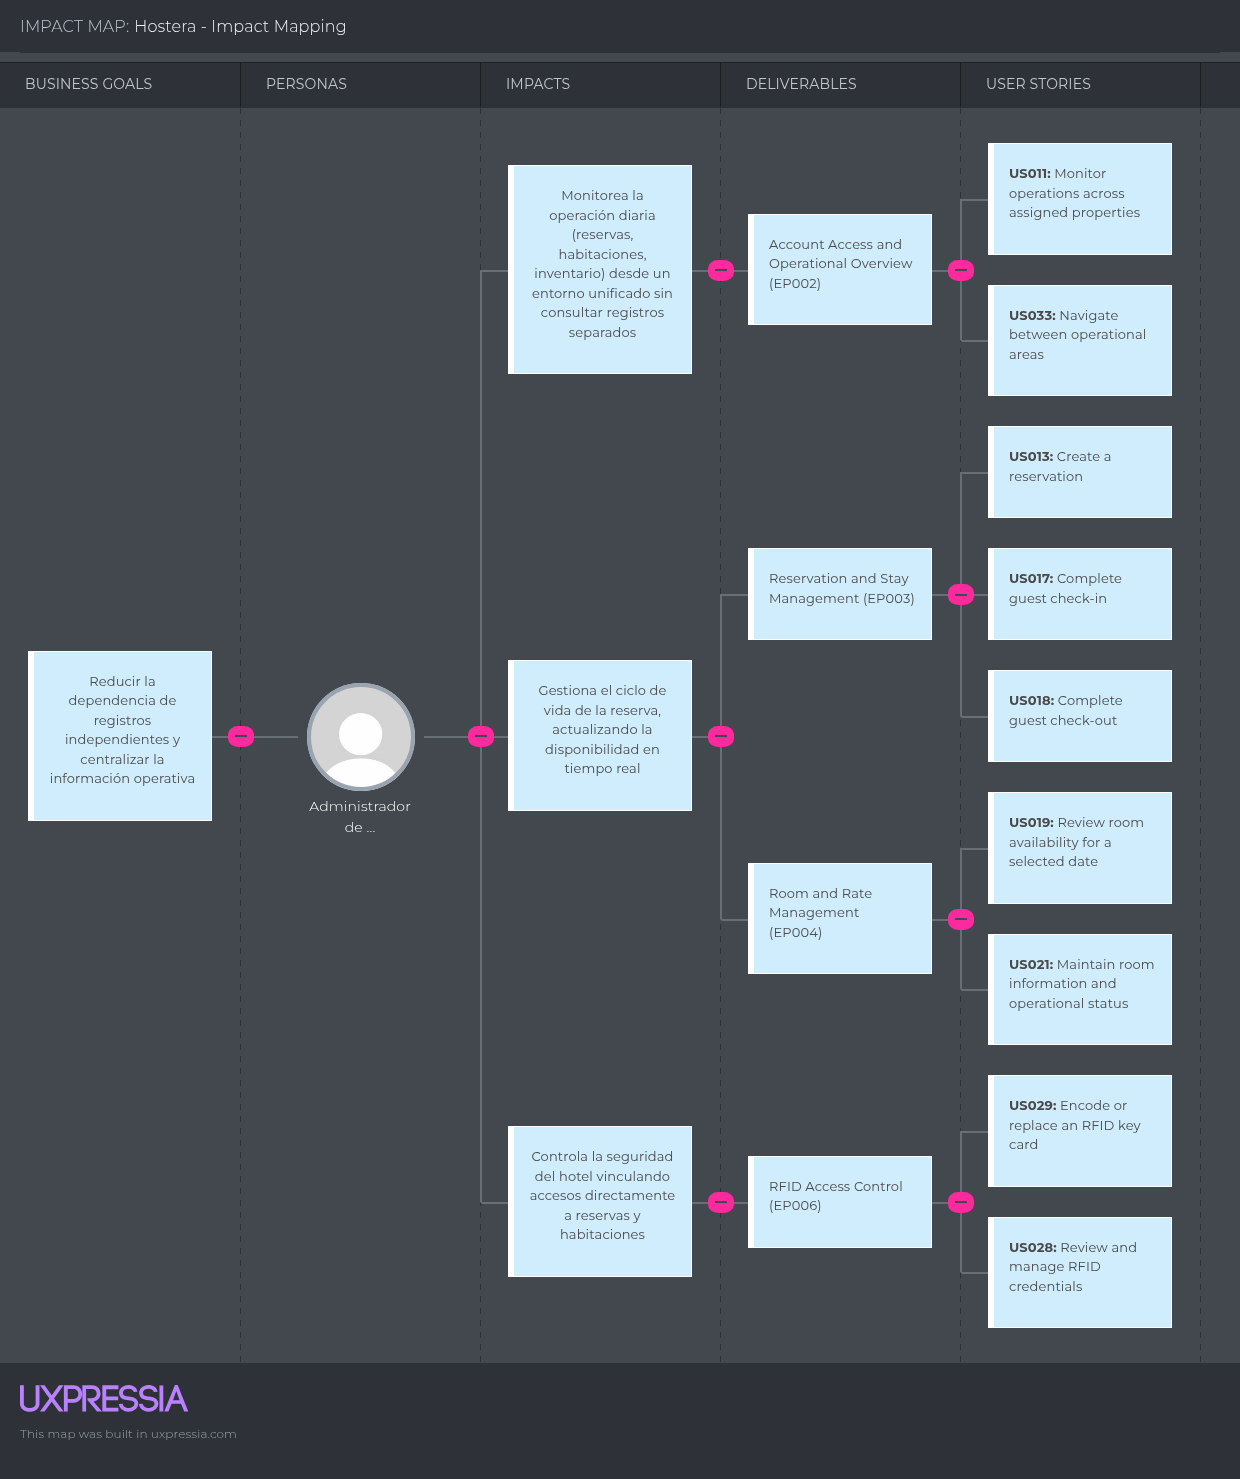
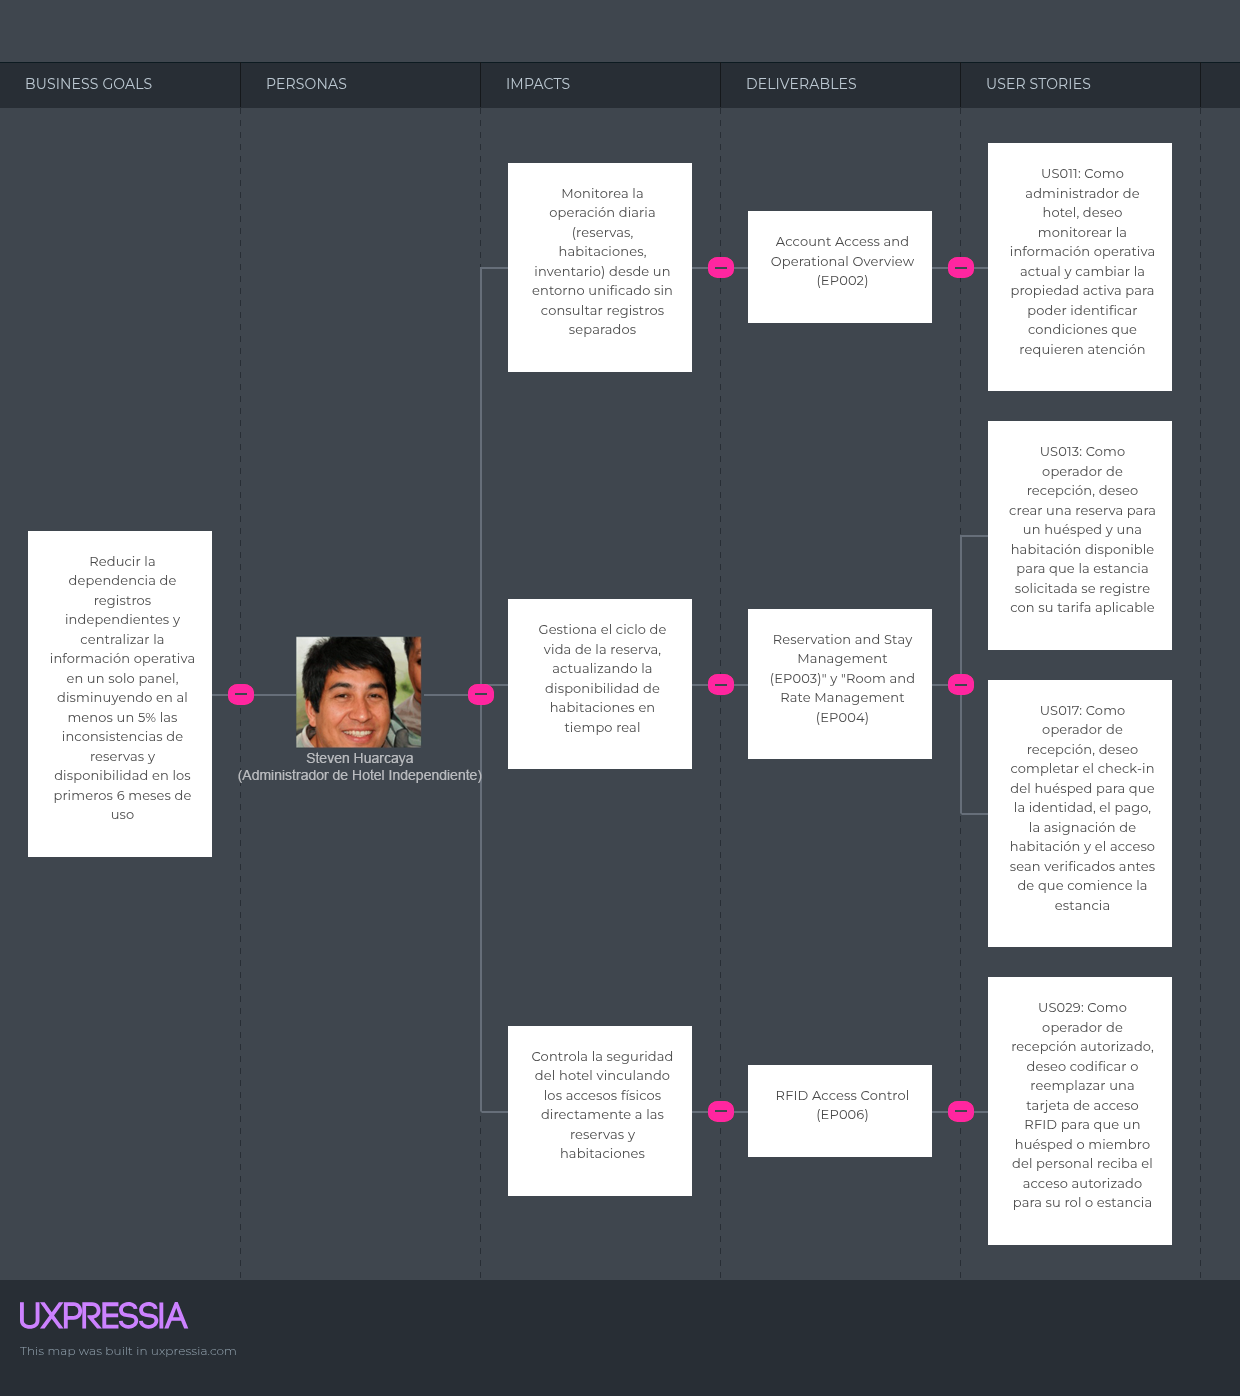
docs(impact-mapping): update impact mapping section

Changed region(s): [[0.0, 0.0308, 1.0, 0.9549], [0.0, 0.3696, 0.1839, 0.616], [0.2145, 0.4312, 0.3677, 0.5852]]

diff --git a/report.md b/report.md
@@ -1428,76 +1428,76 @@ perspectiva de un Developer y no generan Wireflow User Goals.
 
 El Impact Mapping de Hostera conecta las hipótesis estratégicas del modelo de negocio con los cambios de comportamiento esperados en los usuarios y las características del producto digital. Esta sección toma como base los criterios de éxito definidos en el proceso de Lean UX, las definiciones de los segmentos objetivo y los requerimientos funcionales documentados para el Landing Page y la Web Application.
 
-## Business Goals (SMART)
+### Business Goals (SMART)
 
-Los objetivos de negocio reflejan los criterios de éxito ("Success Criteria") establecidos en las Hipótesis de Lean UX para validar la propuesta de valor de Hostera.
+Los objetivos de negocio reflejan los criterios de éxito ("Success Criteria") establecidos en las Hipótesis de Lean UX para validar la propuesta de valor de Hostera, definidos bajo la estructura SMART.
 
 | # | Business Goal | Descripción y Métricas de Éxito | Epic Relacionado |
 |---|---|---|---|
-| **BG1** | Centralización operativa | Aumentar en al menos 5% las tareas de supervisión completadas desde el panel sin consultar registros adicionales | EP002 |
-| **BG2** | Precisión en reservas y disponibilidad | Reducir en al menos 5% las inconsistencias detectadas entre reservas y disponibilidad de habitaciones | EP003, EP004 |
-| **BG3** | Visibilidad de inventario | Aumentar en al menos 5% los movimientos de inventario registrados y consultables, reduciendo diferencias de stock | EP005 |
-| **BG4** | Trazabilidad RFID | Aumentar en al menos 5% los accesos autorizados que quedan relacionados con una tarjeta RFID, una habitación y un huésped/usuario | EP006 |
-| **BG5** | Coordinación multi-sede | Aumentar en al menos 5% las tareas de supervisión completadas correctamente en escenarios de varias sedes | EP007 |
-| **BG6** | Adquisición e incorporación | Convertir visitantes en usuarios registrados a través del Landing Page, identificando su escala operativa (hotel independiente o cadena) | EP001 |
+| **BG1** | Centralización operativa | Aumentar en al menos 5% las tareas de supervisión completadas desde el panel sin consultar registros adicionales durante los primeros 6 meses de despliegue. | EP002 |
+| **BG2** | Precisión en reservas y disponibilidad | Reducir en al menos 5% las inconsistencias detectadas entre reservas y disponibilidad de habitaciones en el lapso de los primeros 6 meses de uso. | EP003, EP004 |
+| **BG3** | Visibilidad de inventario | Aumentar en al menos 5% los movimientos de inventario registrados y consultables, reduciendo diferencias de stock en un periodo de 3 meses tras la implementación. | EP005 |
+| **BG4** | Trazabilidad RFID | Aumentar en al menos 5% los accesos autorizados que quedan relacionados con una tarjeta RFID, una habitación y un huésped/usuario en los primeros 6 meses de operación. | EP006 |
+| **BG5** | Coordinación multi-sede | Aumentar en al menos 5% las tareas de supervisión completadas correctamente en escenarios de varias sedes en el transcurso de 6 meses. | EP007 |
+| **BG6** | Adquisición e incorporación | Convertir el 10% de los visitantes de la Landing Page en usuarios registrados a través de la web, identificando su escala operativa (hotel independiente o cadena) durante los primeros 3 meses de publicación. | EP001 |
 
-## Actores (Actors)
+### Actores (Actors)
 
-Los actores principales se derivan estrictamente de los segmentos objetivo definidos en la sección 1.3 y los roles base requeridos para la Landing Page. Las tareas del personal operativo (recepción, almacén) se consideran acciones subordinadas a la coordinación de estos responsables
+Los actores principales se derivan estrictamente de los User Personas definidos en la sección de Needfinding y los roles base requeridos para la Landing Page. Las tareas del personal operativo (recepción, almacén) se consideran acciones subordinadas a la coordinación de estos responsables.
 
-- **A1 - Administrador de Hotel Independiente:** Propietario o administrador que supervisa la operación diaria de una sola sede (hasta 10 habitaciones). Requiere consultar información actualizada sin depender de sistemas separados.
-- **A2 - Gerente de Operaciones de Cadena:** Responsable de coordinar dos o más sedes de una cadena pequeña (2 a 5 locaciones). Necesita comparar información entre establecimientos manteniendo separados los datos de cada sede.
-- **A3 - Visitante:** Usuario que explora la Landing Page para comprender la propuesta de valor, comparar planes y encontrar la ruta adecuada para su escala operativa.
+- **A1 - Steven Huarcaya (Administrador de Hotel Independiente):** Propietario o administrador que supervisa la operación diaria de una sola sede (hasta 10 habitaciones). Requiere consultar información actualizada sin depender de sistemas separados.
+- **A2 - Anyeli Cárdenas (Gerente de Operaciones de Cadena):** Responsable de coordinar dos o más sedes de una cadena pequeña (2 a 5 locaciones). Necesita comparar información entre establecimientos manteniendo separados los datos de cada sede.
+- **A3 - Visitantes (Perfiles afines a Steven y Anyeli):** Usuarios que exploran la Landing Page para comprender la propuesta de valor, comparar planes y encontrar la ruta adecuada para su escala operativa.
 
-## Impacts (Cambios en el Comportamiento de los Actores)
+### Impacts (Cambios en el Comportamiento de los Actores)
 
-Los Impacts describen cómo esperamos que cambien o se comporten los Actors como resultado de usar Hostera. Cada Impact está formulado como un cambio observable y medible.
+Los Impacts describen cómo esperamos que cambien o se comporten los User Personas como resultado de usar Hostera. Cada Impact está formulado como un cambio observable y medible.
 
 | # | Actor | Impact (¿Cómo deben cambiar?) | BG |
 |---|---|---|---|
-| **IM1** | A3 | Explora la propuesta de valor en el Landing Page, diferencia los planes y se registra en la plataforma | BG6 |
-| **IM2** | A1, A2 | Inicia sesión y monitorea la operación diaria desde un overview unificado en lugar de usar registros separados | BG1 |
-| **IM3** | A1, A2 | Gestiona el ciclo de vida de las reservas (check-in/check-out) afectando automáticamente la disponibilidad de habitaciones | BG2 |
-| **IM4** | A1, A2 | Registra entradas y salidas de existencias en el almacén mediante ajustes de stock auditables | BG3 |
-| **IM5** | A1, A2 | Codifica credenciales RFID, asocia accesos a las habitaciones y revisa los eventos denegados o concedidos | BG4 |
-| **IM6** | A2 | Navega entre propiedades asignadas y genera reportes consolidados por sede sin mezclar información | BG5 |
+| **IM1** | A3 | Explora la propuesta de valor en el Landing Page, diferencia los planes y se registra en la plataforma. | BG6 |
+| **IM2** | A1, A2 | Inician sesión y monitorean la operación diaria desde un overview unificado en lugar de usar registros separados. | BG1 |
+| **IM3** | A1, A2 | Gestionan el ciclo de vida de las reservas (check-in/check-out) afectando automáticamente la disponibilidad de habitaciones. | BG2 |
+| **IM4** | A1, A2 | Registran entradas y salidas de existencias en el almacén mediante ajustes de stock auditables. | BG3 |
+| **IM5** | A1, A2 | Codifican credenciales RFID, asocian accesos a las habitaciones y revisan los eventos denegados o concedidos. | BG4 |
+| **IM6** | A2 | Navega entre propiedades asignadas y genera reportes consolidados por sede sin mezclar información. | BG5 |
 
-## Deliverables (Características del Producto)
+### Deliverables (Características del Producto)
 
 Los entregables corresponden a los Epics (EP) definidos en el Product Backlog, los cuales agrupan las User Stories y Technical Stories necesarias para provocar los impactos.
 
 | # | Deliverable | Descripción Funcional | Impactos |
 |---|---|---|---|
-| **D1** | Landing Page Experience (EP001) | Portal con navegación clara, propuesta de valor, selección de planes e inicio de registro para hoteles y cadenas | IM1 |
-| **D2** | Account Access & Overview (EP002) | Autenticación, selección de propiedad y un dashboard administrativo para monitorear el estado actual del hotel | IM2 |
-| **D3** | Reservation & Room Management (EP003, EP004) | Módulos para gestionar disponibilidad, tarifas y el ciclo de la reserva desde la creación hasta el check-out | IM3 |
-| **D4** | Inventory Management (EP005) | Control de artículos, ubicaciones de almacenamiento y registro inmutable de ajustes de stock | IM4 |
-| **D5** | RFID Access Control (EP006) | Integración para codificar, reemplazar y revocar tarjetas RFID, y auditoría de eventos de acceso | IM5 |
-| **D6** | API Reliability (EP008) | Generación y exportación de reportes operativos filtrados por propiedad y periodo de tiempo | IM6 |
-| **D7** | API Reliability (EP008) | Estandarización de errores e infraestructura del RESTful API para respuestas consistentes (Technical Stories) | Todos |
+| **D1** | Landing Page Experience (EP001) | Portal con navegación clara, propuesta de valor, selección de planes e inicio de registro para hoteles y cadenas. | IM1 |
+| **D2** | Account Access & Overview (EP002) | Autenticación, selección de propiedad y un dashboard administrativo para monitorear el estado actual del hotel. | IM2 |
+| **D3** | Reservation & Room Management (EP003, EP004) | Módulos para gestionar disponibilidad, tarifas y el ciclo de la reserva desde la creación hasta el check-out. | IM3 |
+| **D4** | Inventory Management (EP005) | Control de artículos, ubicaciones de almacenamiento y registro inmutable de ajustes de stock. | IM4 |
+| **D5** | RFID Access Control (EP006) | Integración para codificar, reemplazar y revocar tarjetas RFID, y auditoría de eventos de acceso. | IM5 |
+| **D6** | Operational Reporting (EP007) | Generación y exportación de reportes operativos filtrados por propiedad y periodo de tiempo. | IM6 |
+| **D7** | API Reliability (EP008) | Estandarización de errores e infraestructura del RESTful API para respuestas consistentes (Technical Stories). | Todos |
 
-## User Stories Derivadas del Impact Mapping
+### User Stories Derivadas del Impact Mapping
 
-Las funcionalidades identificadas han sido traducidas a los requerimientos especificados en la sección 3.1. A continuación, se presenta el mapeo de historias representativas y su integración técnica (Technical Stories).
+Las funcionalidades identificadas han sido traducidas a los requerimientos especificados en la sección 3.1. A continuación, se presenta el mapeo de historias representativas y su integración técnica (Technical Stories) redactadas en el formato "Como... deseo... para...".
 
 | Deliverable | IDs Relacionados | Historias Representativas (Formato estándar) |
 |---|---|---|
-| D1 | US001 - US008 | US003: As an independent hotel administrator, I want a path for one property so that I can identify the entry point intended for my operation. |
-| D2 | US009 - US011 <br/>TS001 - TS004 | US011: As a hotel administrator, I want to monitor current operational information and change the active property so that I can identify conditions that require attention. |
-| D3 | US012 - US023 <br/>TS005 - TS011 | US017: As a front-desk operator, I want to complete guest check-in so that identity, payment, room assignment, and room access are verified before the stay begins. |
-| D4 | US024 - US027 <br/>TS012 - TS013 | US026: As an inventory operator, I want to record stock entering or leaving a storage location so that on-hand quantities and their audit history remain accurate. |
-| D5 | US028 - US030 <br/>TS014 - TS015 | US029: As an authorized operator, I want to encode or replace an RFID key card so that a guest or staff member receives the access authorized for their role. |
-| D6 | US031 - US032 <br/>TS016 | TS016: As a developer, I want to retrieve and export property-scoped operational reports through the API so that clients can analyze consistent results. |
+| D1 | US001 - US008 | **US003:** Como administrador de un hotel independiente, deseo encontrar un camino para una sola propiedad para poder identificar el punto de entrada previsto para mi operación. |
+| D2 | US009 - US011 <br/>TS001 - TS004 | **US011:** Como administrador de hotel, deseo monitorear la información operativa actual y cambiar la propiedad activa para poder identificar condiciones que requieren atención. |
+| D3 | US012 - US023 <br/>TS005 - TS011 | **US017:** Como operador de recepción, deseo completar el check-in del huésped para que la identidad, el pago, la asignación de habitación y el acceso sean verificados antes de que comience la estancia. |
+| D4 | US024 - US027 <br/>TS012 - TS013 | **US026:** Como operador de inventario, deseo registrar el stock que entra o sale de una ubicación de almacenamiento para que las cantidades disponibles y su historial de auditoría permanezcan precisos. |
+| D5 | US028 - US030 <br/>TS014 - TS015 | **US029:** Como operador autorizado, deseo codificar o reemplazar una tarjeta de acceso RFID para que un huésped o miembro del personal reciba el acceso autorizado para su rol. |
+| D6 | US031 - US032 <br/>TS016 | **TS016:** Como desarrollador, deseo recuperar y exportar reportes operativos limitados por propiedad a través de la API para que los clientes puedan analizar resultados consistentes. |
 
 ## Resumen Visual
 
 El mapa de impacto fue consolidado en la herramienta UXPressia, ilustrando la jerarquía completa desde los Business Goals hasta las User Stories establecidas para el producto mínimo viable de Hostera.
 
-### Impact Mapping: Hotel independiente
+### Impact Mapping: Segmento 1 - Hotel independiente
 
 <img src="assets/chapter-3/uxpressia-impact-mapping-1.png" alt="Imagen de Impact Mapping Hotel Independiente" >
 
-### Impact Mapping: Cadena hotelera pequeña
+### Impact Mapping: Segmento 2 - Cadena hotelera pequeña
 
 <img src="assets/chapter-3/uxpressia-impact-mapping-2.png" alt="Imagen de Impact Mapping Hotel Independiente" >
 
